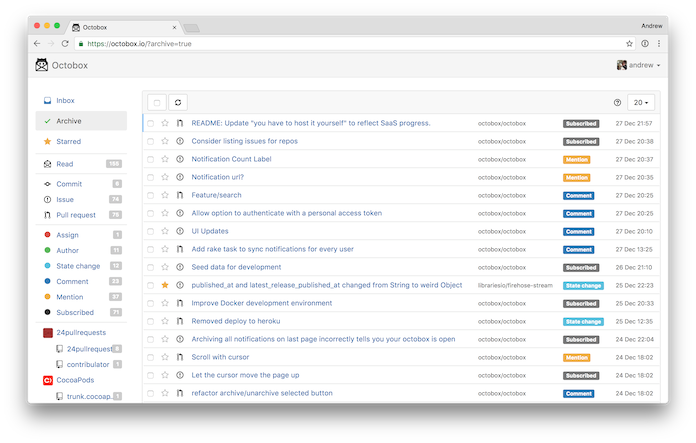
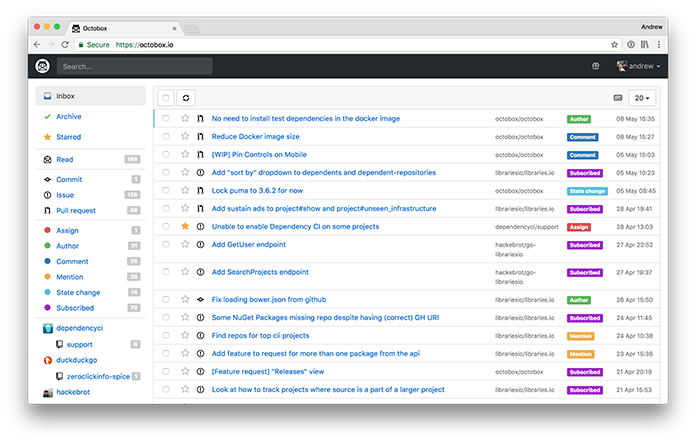
Updated screenshot
Screenshot in readme and site index updated to show the new black theme.

Closes #360

diff --git a/README.md b/README.md
@@ -2,7 +2,7 @@
 
 Take back control of your GitHub Notifications with [Octobox]( https://octobox.io).
 
-![Screenshot of  Octobox](https://cloud.githubusercontent.com/assets/1060/21510049/16ad341c-cc87-11e6-9a83-86c6be94535f.png)
+![Screenshot of  Octobox](https://cloud.githubusercontent.com/assets/1060/25845986/feeca52c-34a7-11e7-82cf-d9b64546e4f6.png)
 
 [![Build Status](https://travis-ci.org/octobox/octobox.svg?branch=master)](https://travis-ci.org/octobox/octobox)
 [![Code Climate](https://img.shields.io/codeclimate/github/octobox/octobox.svg?style=flat)](https://codeclimate.com/github/octobox/octobox)
